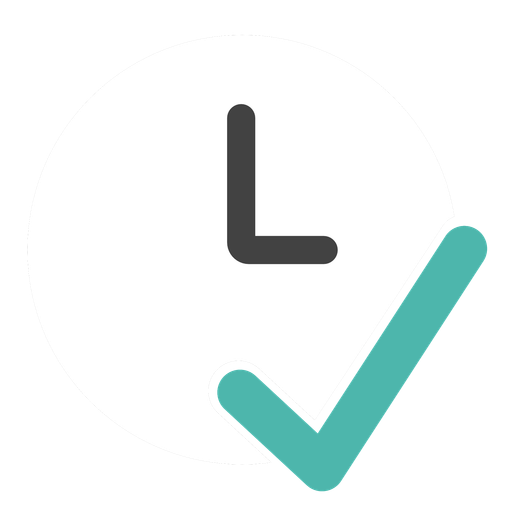
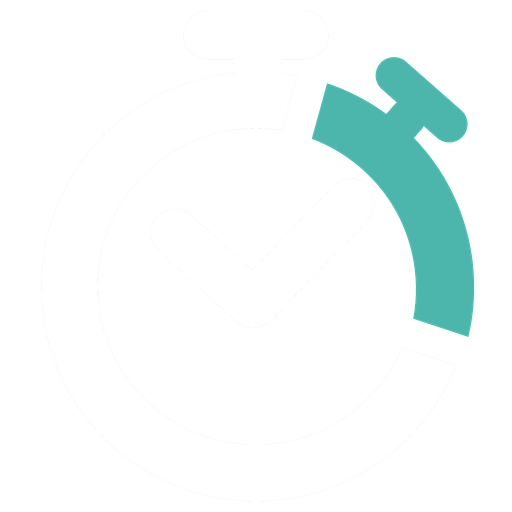
TimeLog のロゴをストップウォッチの絵に変える

Changed region(s): [[0.4062, 0.0938, 0.9688, 0.9688], [0.4375, 0.1875, 0.6562, 0.5312]]

diff --git a/openspec/changes/add-recording-favicon/tasks.md b/openspec/changes/add-recording-favicon/tasks.md
@@ -2,7 +2,7 @@
 
 ## 1. 画像
 
-- [ ] 1.1 `~/Downloads/TimeLog/l_デフォルト.png`・`d_デフォルト.png` を `sharp` で透過・512×512px に縮小し、`public/icon-light.png`・`public/icon-dark.png` を置き換える（design「画像はユーザーの画像を透過・縮小して public/ に置く」）。512px でアルファがあること、四隅と輪の内側が透明なこと、チェックと青緑の部分が残っていることを確かめる。既存の `AppLogo.test.tsx`・`app/layout.test.tsx` が通ることを確かめる（コミット: TimeLog のロゴをストップウォッチの絵に変える）
+- [x] 1.1 `~/Downloads/TimeLog/l_デフォルト.png`・`d_デフォルト.png` を `sharp` で透過・512×512px に縮小し、`public/icon-light.png`・`public/icon-dark.png` を置き換える（design「画像はユーザーの画像を透過・縮小して public/ に置く」）。512px でアルファがあること、四隅と輪の内側が透明なこと、チェックと青緑の部分が残っていることを確かめる。既存の `AppLogo.test.tsx`・`app/layout.test.tsx` が通ることを確かめる（コミット: TimeLog のロゴをストップウォッチの絵に変える）
 - [ ] 1.2 `~/Downloads/TimeLog/l_記録中.png`・`d_記録中.png` を同じ手順で処理し、`public/icon-recording-light.png`・`public/icon-recording-dark.png` として置く。512px でアルファがあること、四隅が透明なこと、赤い四角が残っていることを確かめる（コミット: 記録中のファビコンの画像を追加）
 
 ## 2. ファビコンの切り替え
